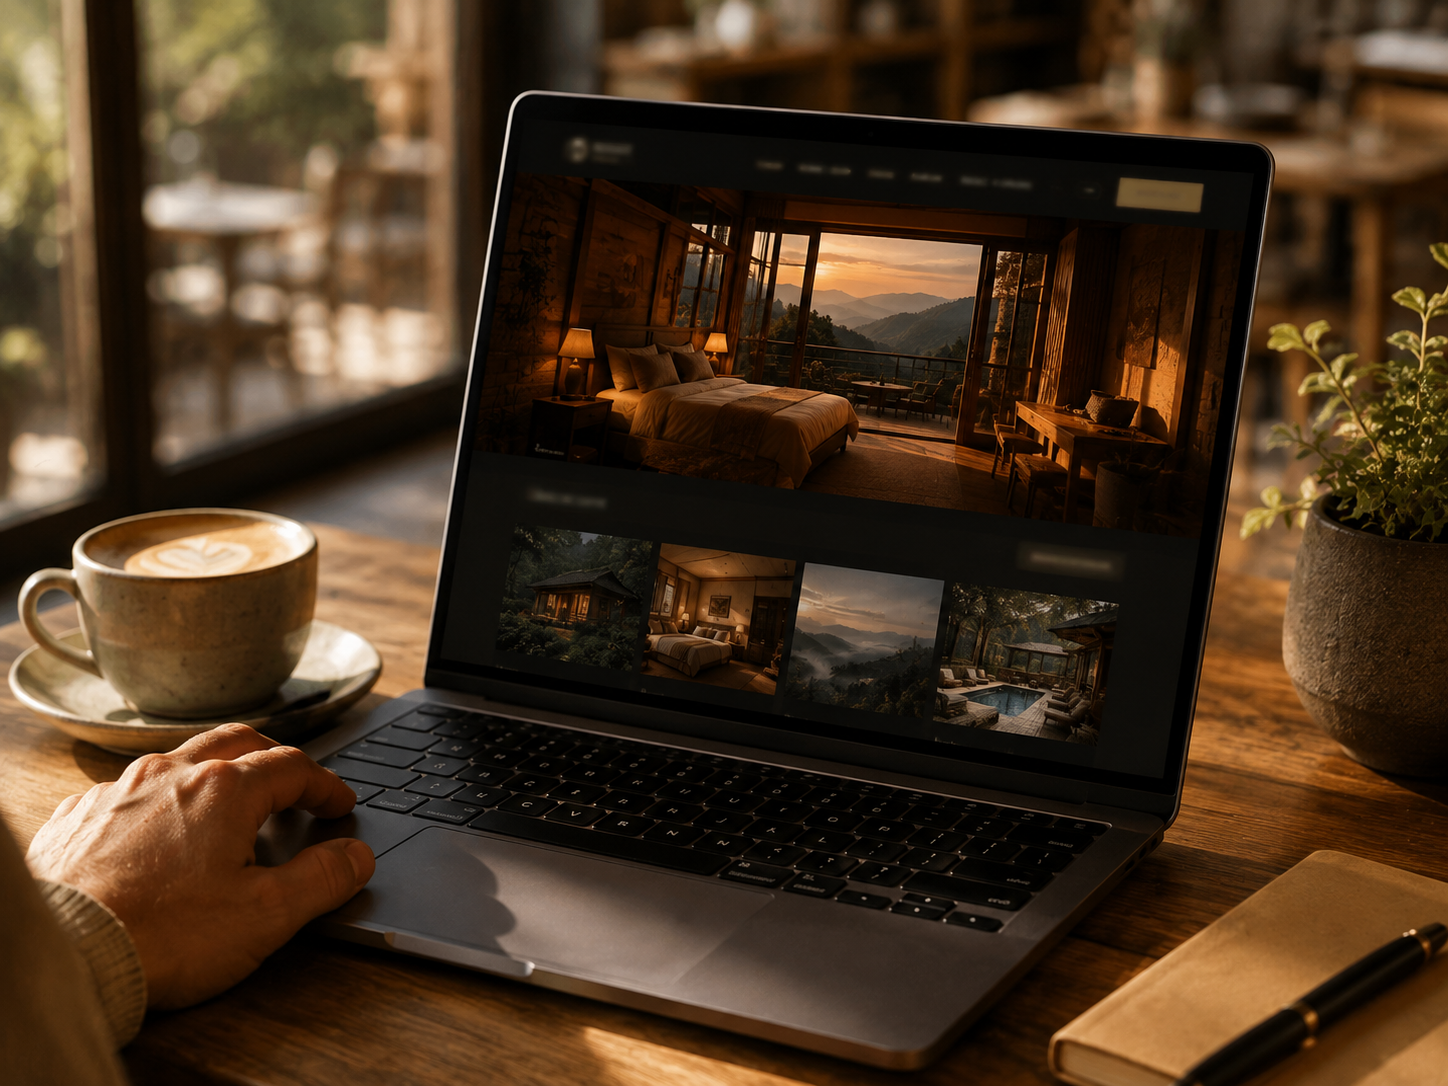
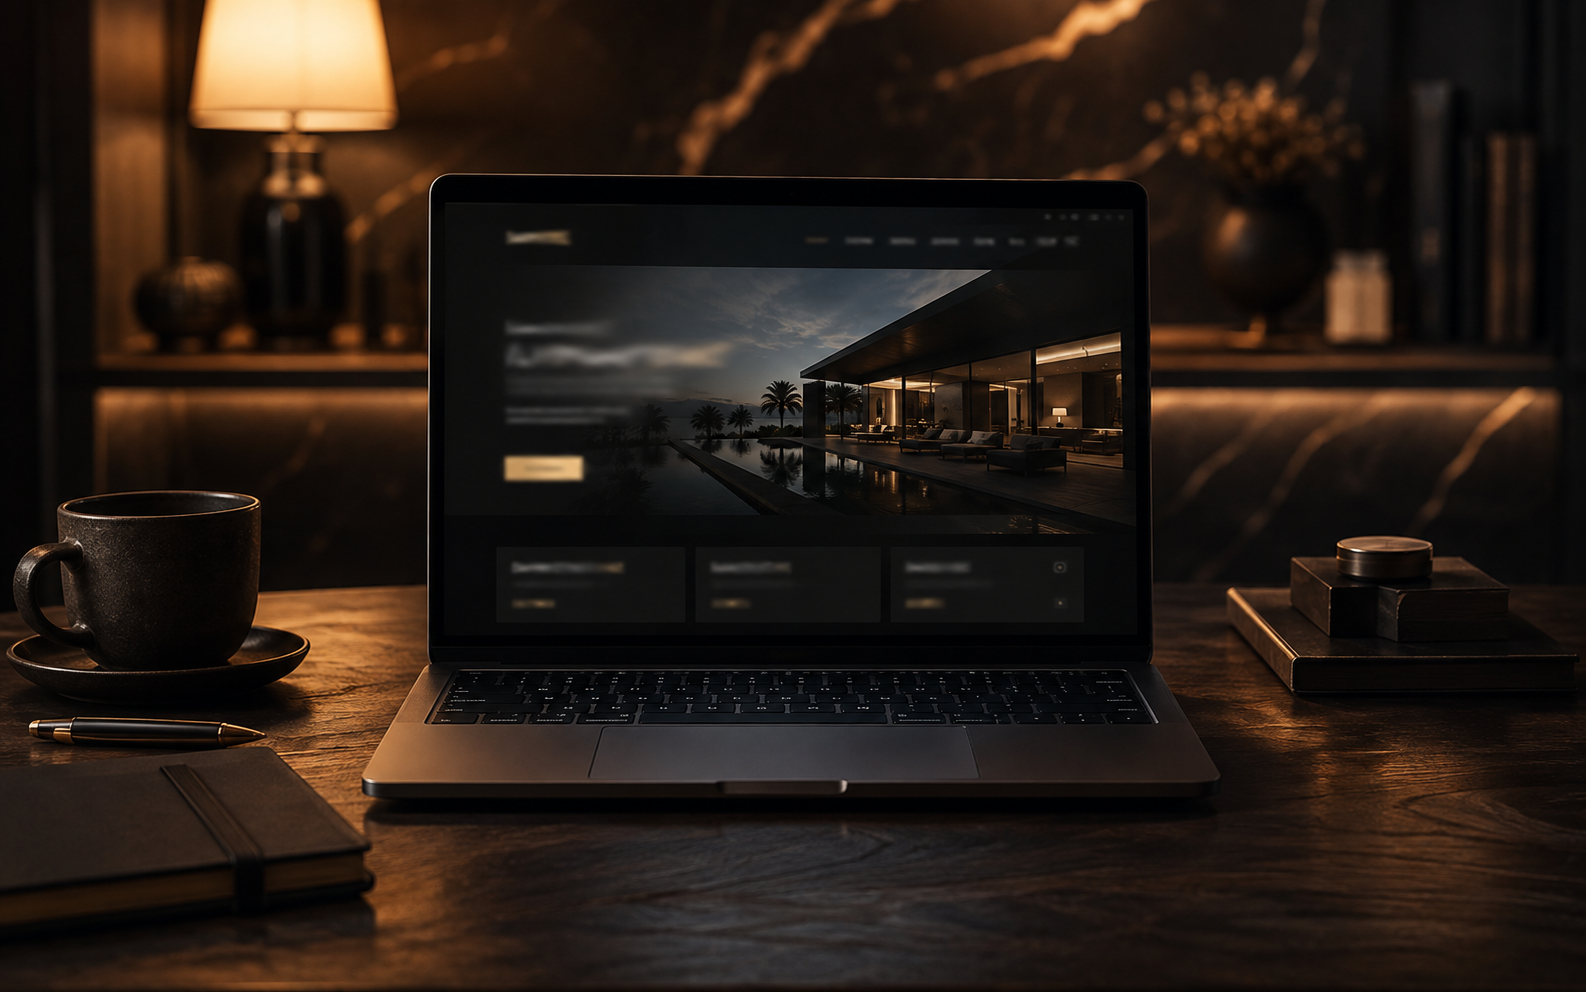
Update website

diff --git a/style.css b/style.css
@@ -523,8 +523,11 @@ button{ font-family: inherit; }
 .mr-hero{
   position: relative; z-index: 1;
   height: 154px; display:flex; flex-direction:column; align-items:flex-start; justify-content:flex-end; gap: 5px; padding: 16px;
-  background: linear-gradient(180deg, transparent 0%, rgba(20,23,28,.75) 100%), linear-gradient(150deg, var(--teal), var(--teal-soft));
-  background-blend-mode: normal;
+  /* semi-transparent scrim only — the real photo (.mr-media, behind at
+     z-index 0) shows through, same bleed-through pattern as .tp-hero
+     and .iu-hero. Falls back to the teal gradient automatically via
+     the shared .media placeholder system if no photo is present. */
+  background: linear-gradient(180deg, rgba(20,23,28,.12) 0%, rgba(20,23,28,.82) 100%);
 }
 .mr-hero span{ font-family: var(--font-display); font-size: 14px; color: #fff; }
 .mr-hero em{ font-family: var(--font-mono); font-style: normal; font-size: 8.5px; letter-spacing: .12em; color: rgba(243,239,230,.7); }
@@ -622,9 +625,19 @@ button{ font-family: inherit; }
 .iu-chrome span{ width:6px; height:6px; border-radius:50%; background: rgba(20,23,28,.25); }
 .iu-url{ margin-left: 8px; font-family: var(--font-mono); font-size: 9.5px; color: rgba(20,23,28,.4); background: rgba(20,23,28,.05); border-radius: 999px; padding: 3px 10px; }
 .iu-hero{
-  padding: 34px 28px; display:flex; flex-direction:column; align-items:flex-start; gap: 8px;
+  position: relative; overflow: hidden; height: 240px;
+  padding: 34px 28px; display:flex; flex-direction:column; align-items:flex-start; justify-content:flex-end; gap: 8px;
   background: linear-gradient(150deg, var(--teal), var(--teal-soft));
 }
+/* Real photography sits behind the mock hero text — same placeholder
+   system used elsewhere, so it inherits the teal gradient fallback
+   until a photo is dropped at the hinted path. */
+.iu-hero-media.media{ position: absolute; inset: 0; z-index: 0; border-radius: 0; }
+.iu-hero-scrim{
+  position: absolute; inset: 0; z-index: 1;
+  background: linear-gradient(200deg, rgba(20,23,28,.55), rgba(20,23,28,.88));
+}
+.iu-eyebrow, .iu-title, .iu-btn{ position: relative; z-index: 2; }
 .iu-eyebrow{ font-family: var(--font-mono); font-size: 9.5px; letter-spacing: .16em; color: rgba(243,239,230,.7); }
 .iu-title{ font-family: var(--font-display); font-size: clamp(18px,2.6vw,24px); color: #fff; text-align: left; max-width: 380px; }
 .iu-btn{ margin-top: 6px; font-family: var(--font-mono); font-size: 10px; letter-spacing: .06em; border: 1px solid rgba(243,239,230,.5); color: #fff; border-radius: 999px; padding: 7px 18px; }
@@ -945,14 +958,24 @@ button{ font-family: inherit; }
    ========================================================= */
 .convert{ max-width: none; padding: 0 var(--gutter); }
 .convert-inner{
+  position: relative; overflow: hidden;
   max-width: var(--container); margin: 0 auto; padding: 100px var(--gutter);
   text-align: center; border-radius: var(--radius-m);
   background: linear-gradient(160deg, var(--teal), var(--ink-2));
   border: 1px solid var(--line);
 }
-.convert-inner .eyebrow{ text-align: center; }
-.convert-inner h2{ font-size: clamp(30px,4vw,48px); max-width: 760px; margin: 0 auto 20px; }
-.convert-inner p{ color: var(--muted); max-width: 520px; margin: 0 auto 36px; font-size: 17px; line-height: 1.6; }
+/* Full-section background photo — same placeholder system used
+   elsewhere, so it falls back to the teal/ink gradient above until
+   a photo is dropped at the hinted path. */
+.convert-media.media{ position: absolute; inset: 0; z-index: 0; border-radius: 0; }
+.convert-scrim{
+  position: absolute; inset: 0; z-index: 1;
+  background: linear-gradient(160deg, rgba(20,23,28,.72), rgba(20,23,28,.88));
+}
+.convert-inner .eyebrow{ position: relative; z-index: 2; text-align: center; }
+.convert-inner h2{ position: relative; z-index: 2; font-size: clamp(30px,4vw,48px); max-width: 760px; margin: 0 auto 20px; }
+.convert-inner p{ position: relative; z-index: 2; color: var(--muted); max-width: 520px; margin: 0 auto 36px; font-size: 17px; line-height: 1.6; }
+.convert-inner .btn{ position: relative; z-index: 2; }
 
 /* =========================================================
    CONTACT

diff --git a/index.html b/index.html
@@ -31,10 +31,16 @@
 
 <meta name="theme-color" content="#0b0d10">
 
+<!-- Only assets/favicon.svg ships with this project (see README folder
+     structure) — modern browsers use it for the tab icon, so no broken
+     requests fire. iOS's home-screen icon still requires a real PNG, so
+     that line stays commented out until assets/apple-touch-icon.png
+     (180x180) and the two favicon PNGs below exist on disk — add them
+     and uncomment for wider legacy-browser and iOS coverage. -->
 <link rel="icon" href="assets/favicon.svg" type="image/svg+xml">
-<link rel="icon" href="assets/favicon-32.png" sizes="32x32" type="image/png">
-<link rel="icon" href="assets/favicon-16.png" sizes="16x16" type="image/png">
-<link rel="apple-touch-icon" href="assets/apple-touch-icon.png">
+<!-- <link rel="icon" href="assets/favicon-32.png" sizes="32x32" type="image/png"> -->
+<!-- <link rel="icon" href="assets/favicon-16.png" sizes="16x16" type="image/png"> -->
+<!-- <link rel="apple-touch-icon" href="assets/apple-touch-icon.png"> -->
 
 <link rel="preconnect" href="https://fonts.googleapis.com">
 <link rel="preconnect" href="https://fonts.gstatic.com" crossorigin>
@@ -54,7 +60,7 @@
       "url": "https://visionxwebdeveloper.com/",
       "email": "hello@visionxwebdeveloper.com",
       "telephone": "+91 93809 14269",
-      "logo": "https://visionxwebdeveloper.com/assets/apple-touch-icon.png"
+      "logo": "https://visionxwebdeveloper.com/assets/favicon.svg"
     },
     {
       "@type": "WebSite",
@@ -271,6 +277,10 @@
       <div class="impressions-ui" id="impressionsUI" aria-hidden="true">
         <div class="iu-chrome"><span></span><span></span><span></span><span class="iu-url">visionxwebdeveloper.com/yourbusiness</span></div>
         <div class="iu-hero">
+          <div class="iu-hero-media media" data-hint="assets/images/placeholders/project-placeholder-1.webp" aria-hidden="true">
+            <img src="assets/images/placeholders/project-placeholder-1.webp" alt="" loading="lazy" onerror="this.parentElement.classList.add('no-image')">
+          </div>
+          <div class="iu-hero-scrim" aria-hidden="true"></div>
           <span class="iu-eyebrow">YOUR BUSINESS</span>
           <span class="iu-title">A First Impression, Designed On Purpose.</span>
           <span class="iu-btn">Explore</span>
@@ -482,6 +492,11 @@
   <!-- ============ CONVERSION BAND ============ -->
   <section class="section convert">
     <div class="convert-inner reveal-up">
+      <div class="convert-media media" data-hint="assets/images/placeholders/project-placeholder-3.webp" aria-hidden="true">
+        <img src="assets/images/placeholders/project-placeholder-3.webp" alt="" loading="lazy" onerror="this.parentElement.classList.add('no-image')">
+        <span class="media-hint">Replace &mdash; assets/images/placeholders/project-placeholder-3.webp</span>
+      </div>
+      <div class="convert-scrim" aria-hidden="true"></div>
       <p class="eyebrow">START HERE</p>
       <h2>Imagine Your Business Here.</h2>
       <p>Tell us what makes your business different. We&rsquo;ll turn that story into a digital experience people remember.</p>

diff --git a/script.js b/script.js
@@ -719,12 +719,16 @@
   if(!reduceMotion && window.matchMedia("(hover:hover)").matches){
     document.querySelectorAll(".magnetic").forEach(function(btn){
       btn.addEventListener("mousemove", function(e){
+        btn.style.transition = "none";
         var rect = btn.getBoundingClientRect();
         var x = (e.clientX - rect.left - rect.width/2) * 0.18;
         var y = (e.clientY - rect.top - rect.height/2) * 0.35;
         btn.style.transform = "translate(" + x + "px," + y + "px)";
       });
-      btn.addEventListener("mouseleave", function(){ btn.style.transform = ""; });
+      btn.addEventListener("mouseleave", function(){
+        btn.style.transition = "transform .3s cubic-bezier(.2,.8,.2,1)";
+        btn.style.transform = "";
+      });
     });
   }
 
